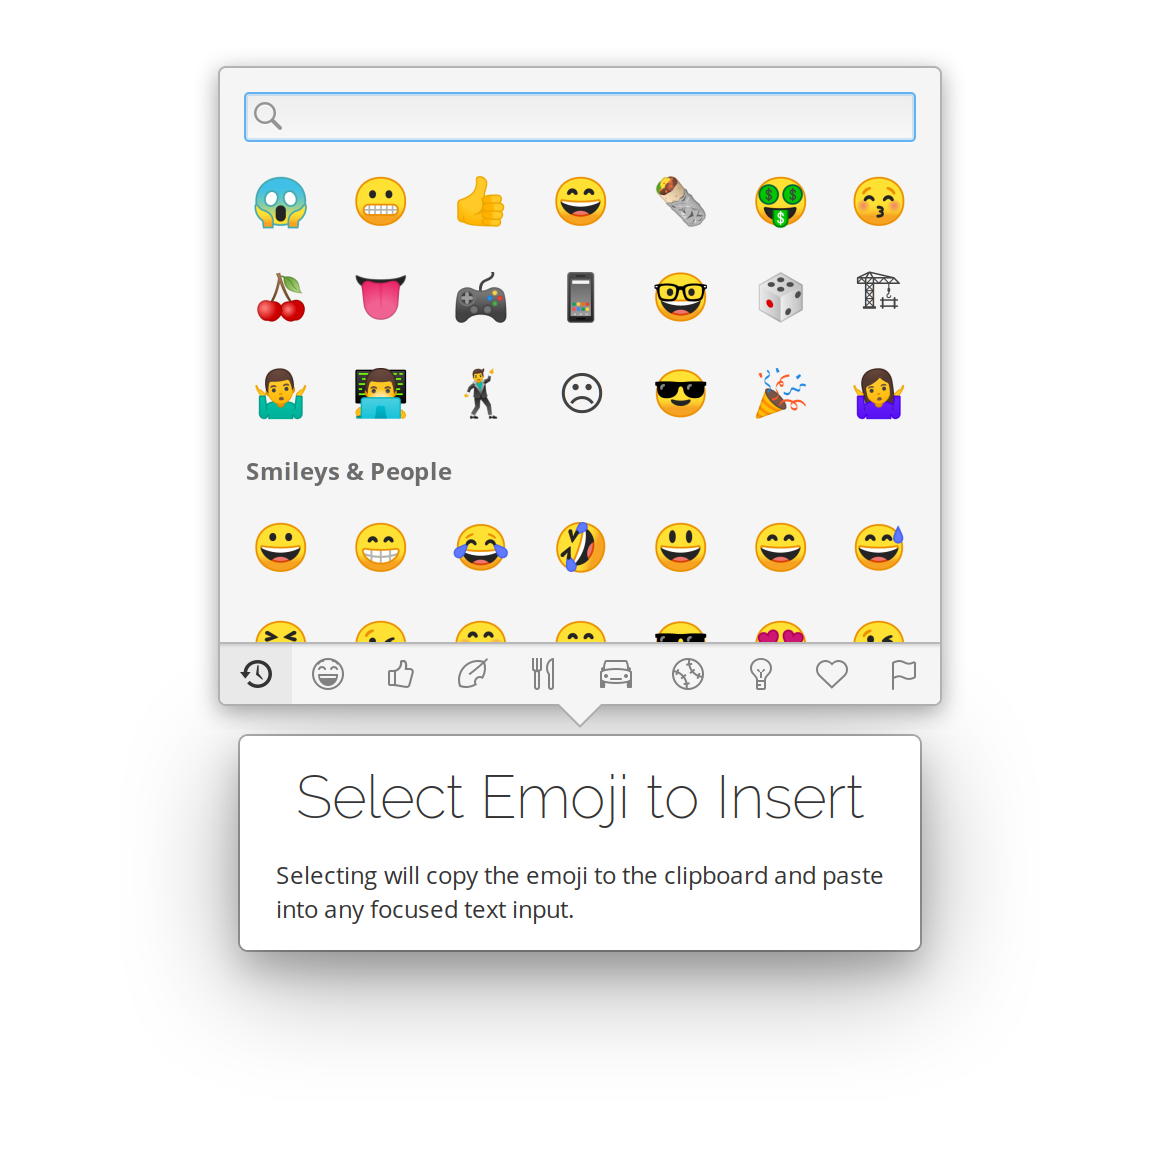
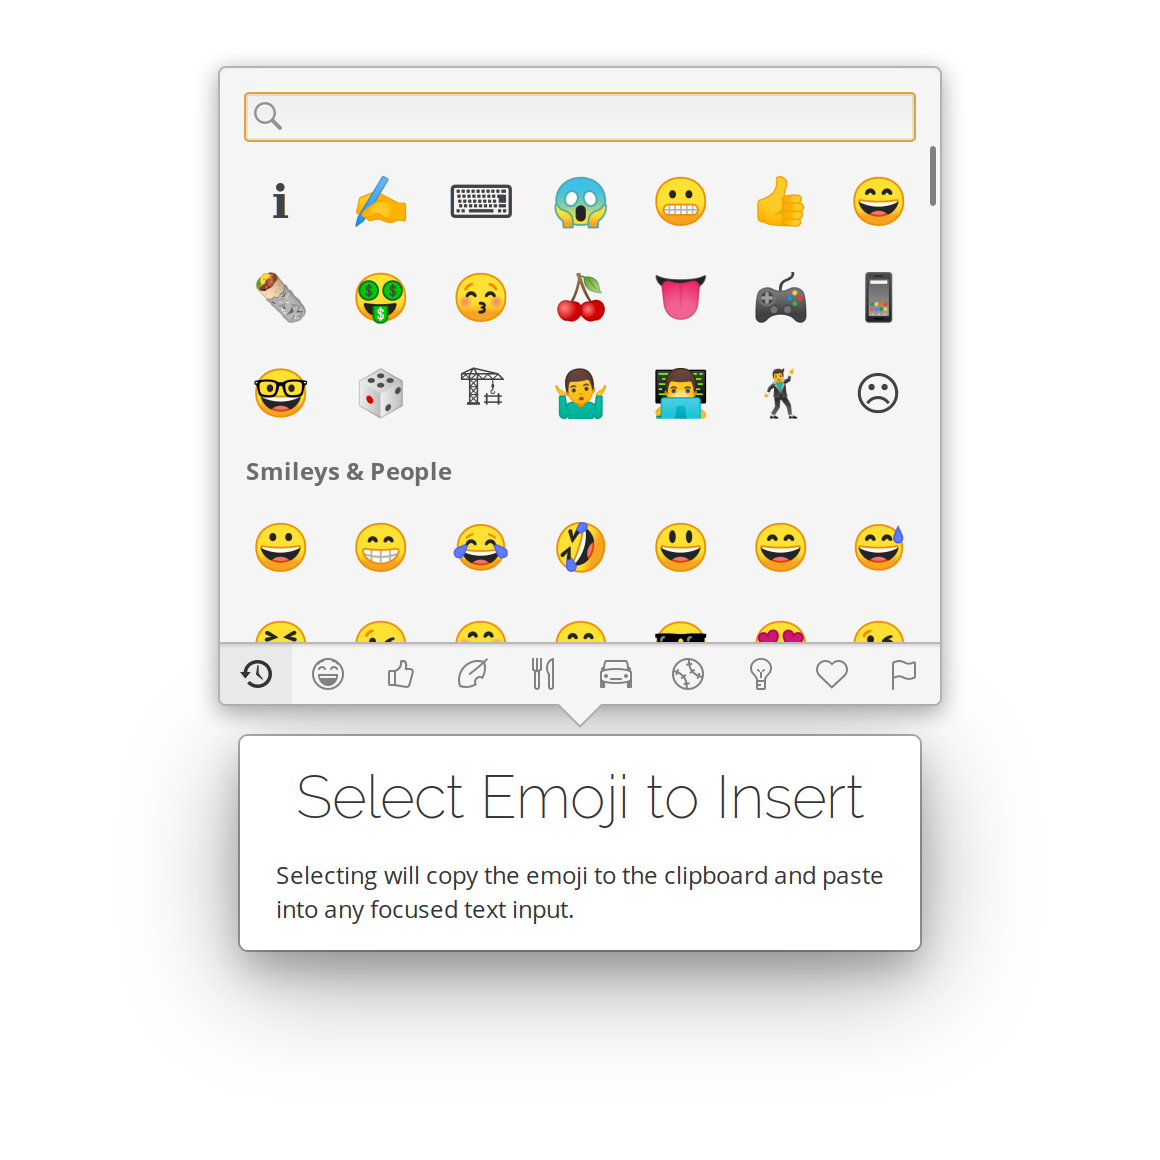
Banana accent color

diff --git a/data/Application.css b/data/Application.css
@@ -19,6 +19,8 @@
 * Authored by: Cassidy James Blaede <c@ssidyjam.es>
 */
 
+@define-color colorAccent @BANANA_700;
+
 .ideogram {
   background: rgba(0, 0, 0, 0);
 }
